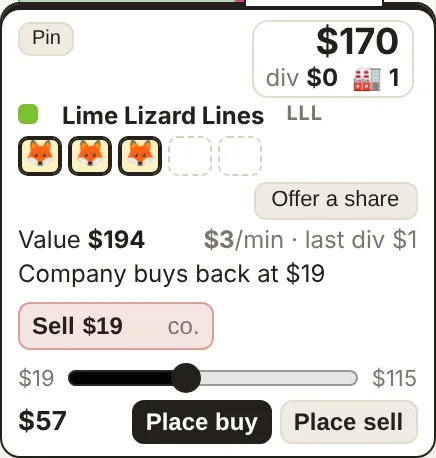
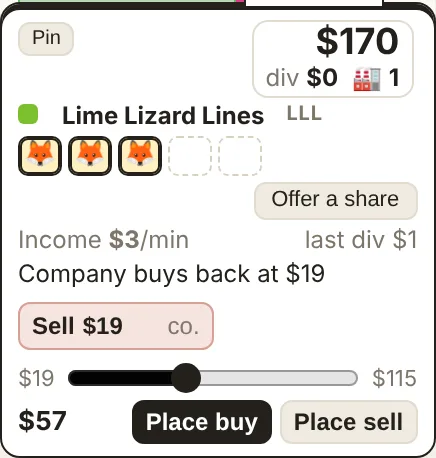
Opened card: only your own orders listed, and no Value line
Playing, the opened card lists only your own standing orders ("Your sell
order: $40" with Withdraw); everyone else's are already on the Buy/Sell
buttons. Watching the bots, all of them are still listed.

The Value line goes: the company's buy-back price says what a share is
worth to it (its tooltip gives the full value). Income and the last
dividend share the line instead. Walkthrough card pictures re-taken.

Claude-Session: https://claude.ai/code/session_01C8anJjHiDxs9NrQijdSTCH

Changed region(s): [[0.0298, 0.4891, 0.656, 0.5502]]

diff --git a/client/src/main.ts b/client/src/main.ts
@@ -663,9 +663,9 @@ function refreshCompanies(obs: Observation) {
       }
     }
     html += '<div class="more">';
-    // Opened: its value, its income lately, and its last dividend (the next one so far is in the box).
+    // Opened: its income lately, and its last dividend (the next one so far is in the box).
     const income = obs.phase === 'running' ? companyRate(c.id, obs.t) : null;
-    html += `<div class="row small"><span title="Company value: trucks and factories at what they cost, plus cash">Value <b>${money(obs.value[c.id])}</b></span><span class="muted"><span title="What its deliveries earned per minute over the last ${RATE_WINDOW / 60} minutes (half to the treasury, half to dividends)">${income === null ? 'earning…' : `<b>${money(income)}</b>/min`}</span> · <span title="Dividend per share: the last one paid">last div ${lastDividend.has(c.id) ? money(lastDividend.get(c.id)!) : '—'}</span></span></div>`;
+    html += `<div class="row small muted"><span title="What its deliveries earned per minute over the last ${RATE_WINDOW / 60} minutes (half to the treasury, half to dividends)">Income ${income === null ? 'earning…' : `<b>${money(income)}</b>/min`}</span><span title="Dividend per share: the last one paid">last div ${lastDividend.has(c.id) ? money(lastDividend.get(c.id)!) : '—'}</span></div>`;
     // A sale running: the share goes to the best bid at the end, if it's at least the minimum.
     if (sale) {
       const best = book.bid;
@@ -682,14 +682,17 @@ function refreshCompanies(obs: Observation) {
     // The market: standing orders (yours can be withdrawn), the company's buy-back price, and starting a sale.
     if (obs.phase === 'running') {
       const rows: string[] = [];
+      // Playing, only your own orders are listed (to withdraw them): the Buy/Sell buttons already show
+      // everyone else's. Watching, all of them.
       const order = (side: 'bid' | 'ask', o: { player: number; price: number }) => {
         const yours = o.player === obs.me && !watching;
-        return `<div class="row small"><span>${side === 'bid' ? 'Buying' : 'Selling'}: ${money(o.price)} (${who(o.player)})</span>${acting && yours ? `<button class="mini" data-cancel="${c.id}:${side}">Withdraw</button>` : ''}</div>`;
+        if (acting && !yours) return;
+        rows.push(`<div class="row small"><span>${yours ? `Your ${side === 'bid' ? 'buy' : 'sell'} order: ${money(o.price)}` : `${side === 'bid' ? 'Buying' : 'Selling'}: ${money(o.price)} (${who(o.player)})`}</span>${acting && yours ? `<button class="mini" data-cancel="${c.id}:${side}">Withdraw</button>` : ''}</div>`);
       };
-      if (book.bid && !sale) rows.push(order('bid', book.bid));
-      if (book.ask) rows.push(order('ask', book.ask));
+      if (book.bid && !sale) order('bid', book.bid);
+      if (book.ask) order('ask', book.ask);
       const cb = obs.companyBid[c.id];
-      if (cb !== null) rows.push(`<div class="row small"><span title="Half the company value per share, while its cash covers that">Company buys back at ${money(cb)}</span></div>`);
+      if (cb !== null) rows.push(`<div class="row small"><span title="Half its value per share (it's worth ${money(obs.value[c.id])}: trucks and factories at cost, plus cash), while its cash covers that">Company buys back at ${money(cb)}</span></div>`);
       html += rows.join('');
     }
     html += '</div>';
